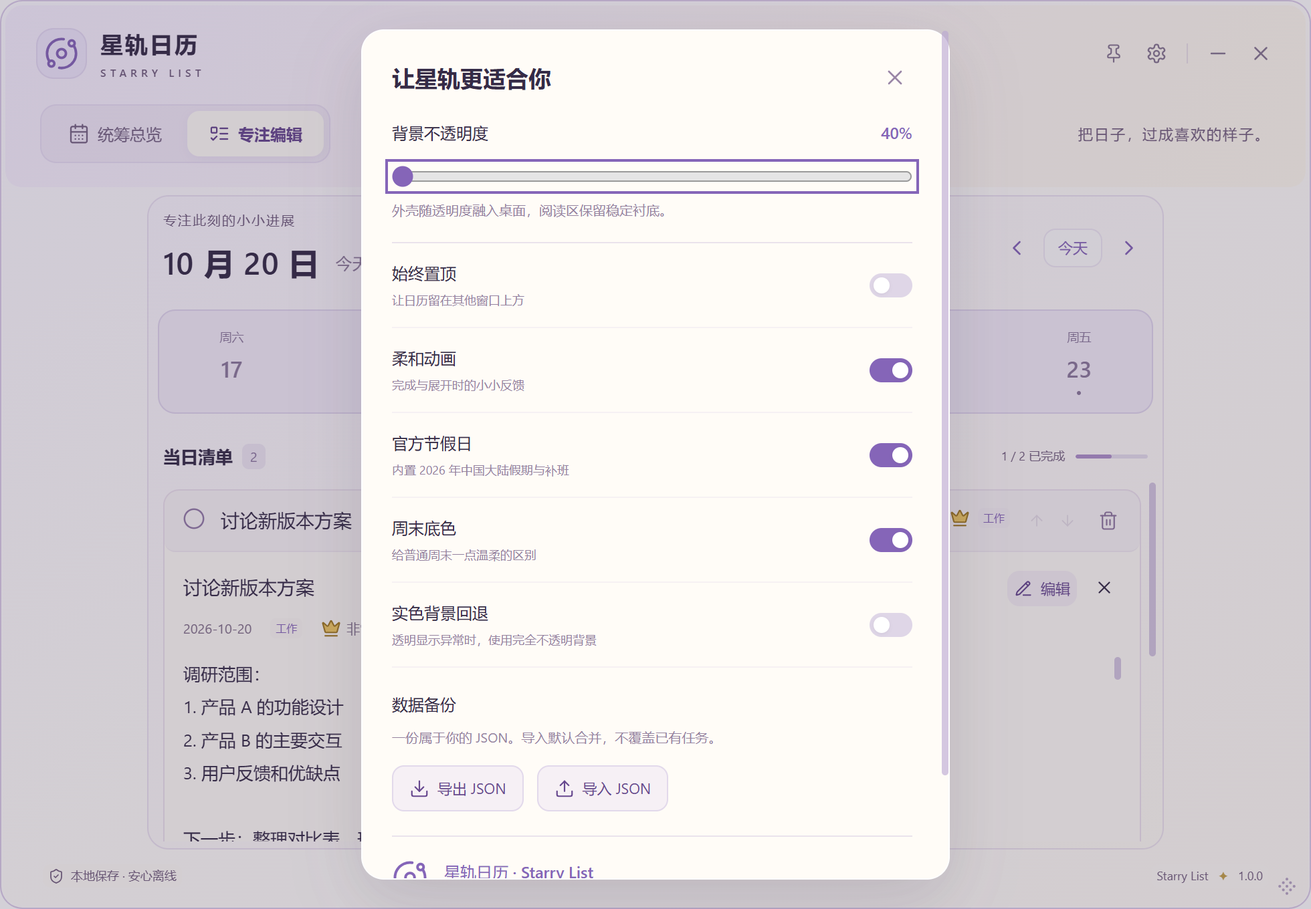
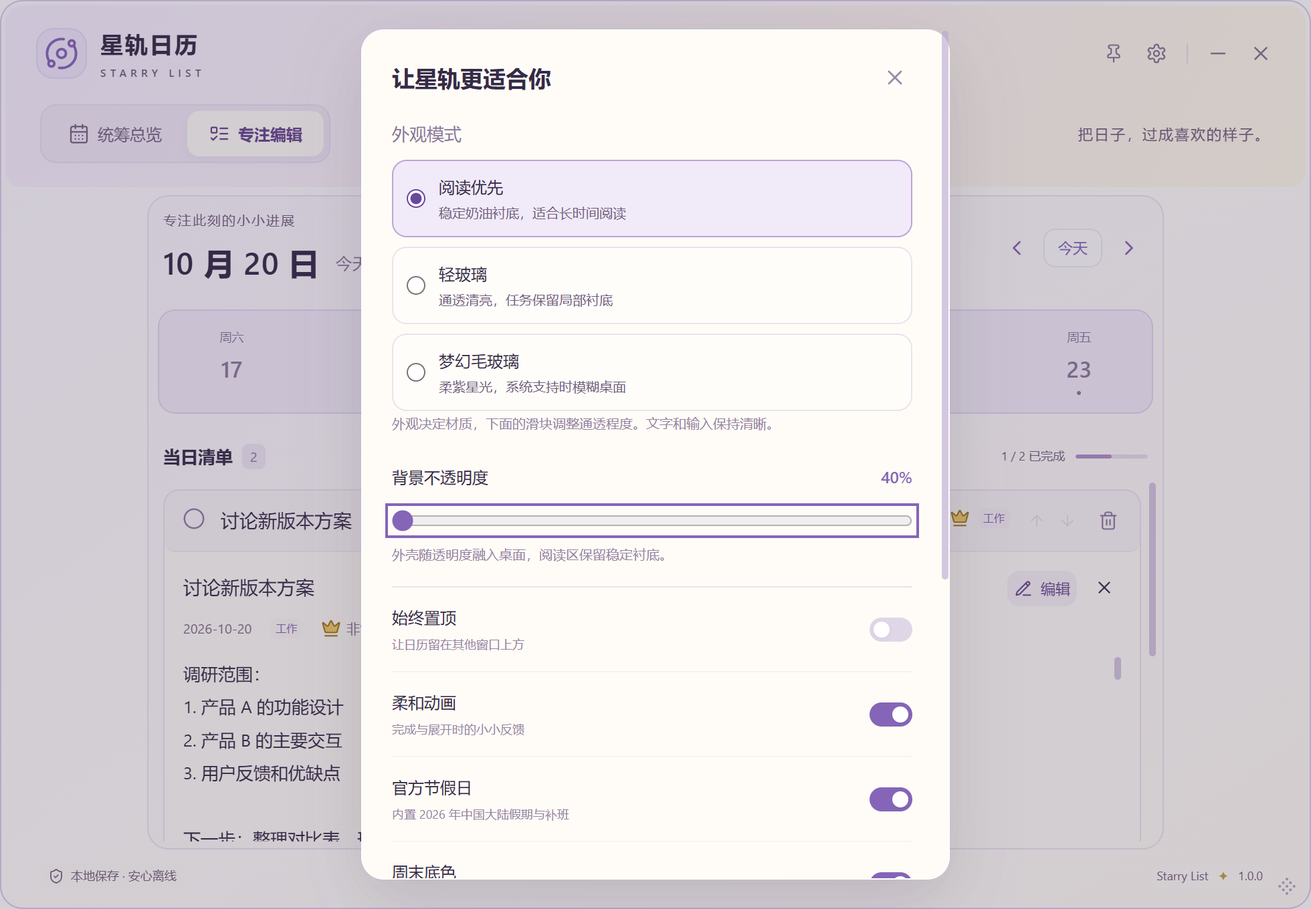
docs: record UX3.0.1 appearance validation and preview builds

diff --git a/docs/VALIDATION.md b/docs/VALIDATION.md
@@ -1,5 +1,55 @@
 # V1.0 验证记录
 
+## 2026-10-20：UX3.0.1 外观模式与通知续修
+
+范围为 SL-003-A 外观设置与 SL-003-B 通知布局；SL-003 继续 In Review，等待用户安装确认。阅读优先默认，新增轻玻璃与梦幻毛玻璃，14px、顶部结构、双视图、任务数据结构不变。原 SL-019 / SL-002 的 UX2.3 验收历史保留，不把本轮视觉续修当成正式发布。
+
+### 数据与材质边界
+
+- 沿用 SQLite `app_settings.value` JSON，增加 `appearance_mode`，没有修改表、迁移文件或 `user_version=1`。旧设置/旧版本 1 JSON 缺字段时默认 reading，读取不改写旧设置；新增设置可靠写入后才更新界面。未知模式拒绝，原任务、分类与排序不变。
+- Tauri 官方 `setEffects({effects:[Effect.Acrylic]})` / `clearEffects()`，仅新增 `core:window:allow-set-effects` 权限。直接复用锁文件已存在的 windows-version 0.1.7 检测系统，锁文件只增加根依赖引用，没有升级其他包。Acrylic 限定透明原生窗口、Windows 11 build 22621+、非实色回退且低于 100%；异步请求串行，其他模式和 100% 主动清除。旧系统/不透明/请求失败使用保护更强的柔紫底色；系统透明效果等仍可能影响最终像素。
+- 未用 CSS backdrop-filter 冒充桌面模糊；主字体和输入不降低 opacity。原生模糊请求是否成功与实际渲染分开记录，技术依据见 [材质说明](UX3_0_1_VISUAL_REVIEW.md)。
+- 通知短文案没有 flex 导致关闭按钮紧随左侧文字，现文案占剩余宽度、关闭最右、撤销在前。所有成功通知共用约五秒与 hover / focus / 弹窗暂停；撤销保留独立状态与原 SQLite 操作。
+
+### 检查结果
+
+- TypeScript、Lint、**119 项前端测试**及生产构建通过：58 App、6 通知、32 域逻辑、9 surface、3 原生材质调用、5 store、6 窗口边界。覆盖外观保存/重新加载/失败保持原模式、旧备份默认、单调透明度与降级保护、原生请求串行/失败重试，以及普通恢复通知暂停计时。最终补充检查以本节收尾记录为准。
+- Rust fmt、**13 项 Rust/SQLite 测试**及 Clippy `-D warnings` 通过。新增旧设置/备份兼容、读取不改写、表版本不变、三模式设置/导出和错误模式拒绝测试。
+- **23 组真实 Windows 11 / WebView2 交互回归通过**：真实独立 Edge 获得前台后失焦新增、原日期及不抢焦点、Enter 连续新增、行内修改、完成、删除/撤销、通知五秒及暂停、长计划/抽屉与草稿保护、真实 SQLite INSERT / UPDATE / DELETE 失败/重试、导入导出、原生关闭及重启。追加外观偏好真正跨原生进程重启保留；只访问独立调试库，不接触安装版数据。
+- **72 张真实 Windows 合成矩阵**：4 个自制背景 × 3 档透明度 × 2 主视图 × 3 材质，逐项通过溢出/14px/文本采样检查。Windows 11 25H2 build 26200.9457、当前约 200% 屏幕比例；矩阵逻辑窗口为 980 × 620，给模糊采样留出合成背景边界。样例日历固定 2026-10-19，计时器仍是真实时间。
+- 梦幻模式系统 `DWMWA_SYSTEMBACKDROP_TYPE=3`，其他模式 / 100% 为非 3，确认实际系统材质配置启用与清除。还检查真实截图；API 返回成功不是唯一证据。三种 100% 的外壳采样像素各不相同，证明实色也保留材质配色区别。读取 DWM 属性只用于测试助手，不给应用新增底层窗口控制。
+- 指定阅读区采样底色与主文字颜色计算的最低对比度：阅读约 **12.63:1**、轻玻璃约 **8.63:1**、梦幻约 **7.20:1**。首轮梦幻 40% 专注采样曾为 6.90:1，已提高该面板 alpha 后复测达标；未改变外壳滑块值。这是指定点检查，不是全界面 WCAG 认证或所有背景的保证。
+- **48 项前景 WebView 视口截图及几何检查通过**：三材质 × 四宽度（980 / 760 / 500 / 380）× 只读详情、长文本抽屉、设置弹窗及顶部通知。关闭按钮到提示右边缘不超过 12px，新增撤销提示与普通「已撤销新增」均检查，保存按钮可见，菜单命中、无横向溢出。前景截图仅包含测试 WebView，**不包含原生桌面合成**，不把它当成 Acrylic 纹理证据。
+- 前景原生截图被窗口叠放保护拒绝，曾试验只调整测试窗口叠放，仍受 Windows 前台规则影响；最终保留拒绝机制并使用明确标注的视口检查。没有关闭、隐藏或修改用户其他应用。真实合成截图前后检查自制背景、前台、无无关窗口，并额外保护四周 64 物理像素；不会为让测试通过而放宽私人内容保护。
+- 原生不透明调试构建成功；三种模式的 **48 项前景视口检查**通过，原生透明能力为 false、滑块禁用、界面不声称透视。另检查两视图 × 四宽度 × 三模式 × 三档保存偏好共 **72 组原生配置/布局组合**，全基础 alpha 为 1、无横向溢出。不透明完整桌面合成矩阵未执行，不以视口截图替代它。
+
+### 复现与未验证范围
+
+按下方 UX3.0 的独立标识配置构建调试版后运行；正式配置不可添加测试专用 set-focus 权限。
+
+```powershell
+npm run test:appearance -- --matrix-only
+npm run test:appearance -- --foreground-only --viewport-only
+npm run test:desktop
+```
+
+结果与完整矩阵在忽略的 `.cache/visual-materials-*`；公开图片全部为自制背景与隔离示例。三种材质的公开图及来源见 [UX3.0.1 对比](UX3_0_1_VISUAL_REVIEW.md)。原生不透明调试构建合并已有 opaque 配置后，添加 `--opaque` 运行相同前景检查。
+
+本轮未完成梦幻材质下真实鼠标拖动/边缘缩放的独立验证；原生 API 调整窗口与先前 UX3.0 拖动证据不能替代本轮材质性能验收。未实际安装/覆盖/卸载，未独立验证 Windows 10、旧 Windows 11、不同 GPU/远程桌面/节能组合、真实 IME 候选窗、混合 DPI 和多显示器。全局字号、顶部重排、桌面驻留及星河未开发。本轮视觉仍等待用户确认。
+
+### UX3.0.1 交付收尾
+
+最终 `npm run check` 再次通过 TypeScript、Lint、119 项前端测试与生产构建；Rust fmt 检查通过。默认透明与原生不透明的生产配置 Windows x64 NSIS 构建均成功。BUNDLEID 仍为 `app.starrylist.desktop`、正式版本仍为 1.0.0，Publisher / Copyright 为 yoli；体验迭代名仅用于独立归档文件名，不创建 Tag 或 Release。测试用 set-focus 权限未加入正式 capability。
+
+| 安装包（本地 artifacts/，不提交 Git）                             | 字节数    | SHA256                                                             |
+| ----------------------------------------------------------------- | --------- | ------------------------------------------------------------------ |
[2 lines of base64/hex data omitted]
+
+校验文件：`artifacts/UX3.0.1-PREVIEW-20261020-SHA256SUMS.txt`。UX3.0 两个旧归档包校验值未变；正式 SQLite 主文件测试前后校验值一致。未关闭用户安装版、未删除或重置数据库。安装体验前请自行导出备份、正常退出旧版后按手册覆盖；本轮没有执行安装器。
+
+本轮实现提交：[`faa14e8`](https://github.com/YOLIIIIII/starry-list/commit/faa14e8e06f328001af6d82dec898ae0969d8b6c)；文档与自制示例截图独立提交。安装包和完整测试目录不提交 Git。
+
 ## 2026-10-20：UX3.0 透明视觉体系（SL-003）
 
 仅改透明视觉层级与测试工具：连续圆角顶栏、真正随滑块变化的透明外壳、稳定奶油色阅读衬底和清楚的前景。14px、顶部排布、日期计算、任务排序、数据库 Schema、应用标识及 UX2.3 交互不变。不依赖模糊滤镜或新增原生窗口特效。

diff --git a/docs/UX3_0_1_VISUAL_REVIEW.md b/docs/UX3_0_1_VISUAL_REVIEW.md
@@ -1,0 +1,44 @@
+# UX3.0.1 外观模式与通知修正
+
+对应 [SL-003-A / SL-003-B](PRODUCT_BACKLOG.md#sl-003)，是 UX3.0 用户反馈的续修；默认阅读优先，14px、主界面布局、任务编辑及数据库表结构不变。用户本轮没有附入参考图片，以下按文字描述实现，不声称复现了未收到的原图。视觉仍待用户最终确认。
+
+## 三种材质
+
+| 模式             | 材质与阅读保护                                                                                | 100% / 实色回退                |
+| ---------------- | --------------------------------------------------------------------------------------------- | ------------------------------ |
+| 阅读优先（默认） | UX3.0 的稳定奶油阅读区、轻透明外壳                                                            | 奶油实色，任务行紧凑           |
+| 轻玻璃           | 冷浅紫与奶油清透材质，面板透视更多；任务行、日期数字有局部衬底，不请求原生模糊                | 清浅冷紫实色与明亮任务行       |
+| 梦幻毛玻璃       | 柔紫浅金材质；受支持的 Windows 请求系统 Acrylic，空隙及面板保留更明显背景氛围；任务行单独保护 | 关闭原生模糊，保留柔紫浅金配色 |
+
+外观模式决定材质；「背景不透明度」仍控制外壳的实际 40%–100%，不是三个模式固定不同透明度。各层保护随滑块单调增强；文本与图标不设整体 opacity。输入、只读长详情、抽屉、菜单、弹窗及通知保持高可读底色。
+
+40% 时，轻玻璃任务行的理论合成背景覆盖约 94.1%；梦幻原生毛玻璃约 93.9%；阅读优先主阅读区约 99.4%。这些数字是多层 alpha 合成，不是文字 opacity 或全界面的统一不透明度。100% 三种模式均不透视，通过配色、描边和任务局部材质继续区分。
+
+## 原生模糊及降级
+
+仅梦幻毛玻璃、透明原生窗口、未开启实色回退且低于 100% 时请求 [Tauri 官方 setEffects / Acrylic](https://v2.tauri.app/reference/javascript/api/namespacewindow/#seteffects)。限定 Windows 11 build 22621+，避开官方提示存在拖动/缩放性能问题的旧系统路径；其他系统、原生不透明包或调用失败使用保护更强的柔紫玻璃底色，设置中明确说明。没有新增 Explorer 嵌入、驻留或未验证窗口 Hack。
+
+系统关闭透明效果、节能、远程桌面和 GPU 条件仍可能影响实际模糊。设置显示「已请求系统 Acrylic」而不是保证每台机器都呈现相同效果；接口成功不等于像素必然模糊。本轮测试同时查询 Windows 的 [DWMWA_SYSTEMBACKDROP_TYPE](https://learn.microsoft.com/en-us/windows/win32/api/dwmapi/ne-dwmapi-dwmwindowattribute)，并观察实际合成截图。其他模式、100% 和实色回退主动清除 Acrylic；异步请求串行，快速切换不会让迟到的旧请求重新启用材质。
+
+未使用 CSS backdrop-filter 来冒充桌面模糊。CSS 方案不能保证过滤 WebView 外的桌面像素；本轮局部背景本身即可保证降级阅读，不依赖滤镜是否支持。
+
+## 风格对比
+
+全部背景为项目脚本绘制的非私人几何、色块或测试文字；所有任务为隔离测试数据。截图前后检查覆盖与前台，并为 Acrylic 额外保护窗口周边 64 个物理像素，避免模糊采样混入旁边的个人内容。日历固定 2026-10-19，计时器使用真实时间。
+
+| 模式       | 高对比背景 / 70% / 总览                                    | 密集文字 / 40% / 专注                               | 深色 / 40% / 总览                                      |
+| ---------- | ---------------------------------------------------------- | --------------------------------------------------- | ------------------------------------------------------ |
+| 阅读优先   | [截图](screenshots/ux301/reading-colorful-70-overview.png) | [截图](screenshots/ux301/reading-text-40-focus.png) | [截图](screenshots/ux301/reading-dark-40-overview.png) |
+| 轻玻璃     | [截图](screenshots/ux301/glass-colorful-70-overview.png)   | [截图](screenshots/ux301/glass-text-40-focus.png)   | [截图](screenshots/ux301/glass-dark-40-overview.png)   |
+| 梦幻毛玻璃 | [截图](screenshots/ux301/frosted-colorful-70-overview.png) | [截图](screenshots/ux301/frosted-text-40-focus.png) | [截图](screenshots/ux301/frosted-dark-40-overview.png) |
+
+完整矩阵、前景、通知对齐、构建结果及原生拖动验证缺口见 [验证记录](VALIDATION.md)。执行 `npm run test:appearance -- --matrix-only` 可复现 72 张真实合成矩阵；前景用 `--foreground-only --viewport-only`，其图片只包含 WebView，不展示真实桌面模糊。需先构建隔离调试版；添加 `--opaque` 检查原生不透明构建。仅运行调试测试，禁止对安装版个人数据库执行脚本。
+
+## 通知与验收
+
+短成功文案原先没有弹性宽度，关闭按钮跟在文案旁；现在所有通知文案占剩余宽度，关闭按钮固定最右，撤销在文案与关闭之间。长文案省略，完整任务标题仍可悬停查看。普通恢复/保存提示与撤销提示共用约 5 秒计时和 hover / focus / 弹窗暂停；多条有效撤销继续独立保留，数据库撤销逻辑不变。
+
+1. 设置 → 外观模式，依次选择三种模式，再比较 40%、70%、100%。
+2. 在深浅、复杂背景前查看日期、任务及长计划，确认自己偏好的材质与可读性。
+3. 打开窄窗口的设置、菜单、抽屉；新增、删除、撤销后确认关闭按钮在右侧，悬停暂停、离开后计时恢复。
+4. 重启确认模式保留；实色回退应关闭模糊与透视，保留材质配色。

diff --git a/docs/ROADMAP.md b/docs/ROADMAP.md
@@ -15,7 +15,7 @@ Windows 是当前主要平台，未来考虑 macOS。桌面驻留是待验证的
 | 初始 V1.0 源码基线              | 已提交并 Push：[`830b88f`](https://github.com/YOLIIIIII/starry-list/commit/830b88f3ddc7fbf23084cab7a722db8dcbe45f2d)    | 首次 [GitHub CI](https://github.com/YOLIIIIII/starry-list/actions/runs/38733069296) 成功 | 原始记录为 Windows 11 验证；不等于所有 Windows 设备已认证    | 未记录完整 V1.0 最终验收                        | 没有 GitHub Release    |
 | SL-001 阅读 / 编辑分离          | 已实现并独立提交：[`23a7cd3`](https://github.com/YOLIIIIII/starry-list/commit/23a7cd3941a28d0724e254ca7b9bb71c9b8fd5c8) | UX2.3 TypeScript、Lint、100 项前端和 11 项 Rust 测试通过                                 | UX2.3 22 组原生回归通过，含宽窄抽屉、长文本、菜单及保存失败  | 用户认可大部分首轮改进；In Review，仍待最终验收 | 未发布，仅本地体验构建 |
 | SL-002 七天日程空状态           | UX2.3：保留可靠失焦新增，Enter 成功后返回原日期加号                                                                     | 100 项前端、11 项 Rust 通过                                                              | 22 组 Windows 11 测试通过，含真实 Edge 失焦、INSERT 失败重试 | Done，2026-10-19 用户确认                       | 未发布                 |
-| SL-003 透明视觉层级             | UX3.0 已实现：连续顶栏、稳定阅读衬底与透明外壳                                                                          | 109 项前端、11 项 Rust 回归通过                                                          | 自制背景矩阵、宽窄窗口及原生拖动/缩放验证，详见验证记录      | In Review，待体验安装包确认                     | 未发布                 |
+| SL-003 透明视觉层级             | UX3.0.1：三种外观与通知右侧关闭                                                                                         | 119 项前端、13 项 Rust 通过                                                              | 23 组桌面、72 张合成矩阵及透明/不透明视口检查，详见验证记录  | In Review，待安装体验确认                       | 未发布                 |
 | SL-004 至 SL-018（除 SL-004-A） | 待安排或想法，不因登记而实现                                                                                            | 未验证                                                                                   | 未验证                                                       | 未验收                                          | 未发布                 |
 | SL-019 快捷删除入口             | UX2.3：顶部居中单行撤销通知，约 5 秒、独立计时及暂停                                                                    | 100 项前端回归通过                                                                       | 真实 DELETE 失败、重试、撤销与菜单定位通过                   | Done，2026-10-19 用户确认                       | 未发布                 |
 | SL-004-A 局部字号               | UX2.1：新增文字、占位符和任务标题统一为 14px                                                                            | 前端检查通过                                                                             | 980 / 760 / 500 / 380px 无水平溢出，菜单命中及字号检查通过   | In Review，父需求 SL-004 保持未完成             | 未发布                 |
@@ -64,7 +64,13 @@ UX2.1 实现提交：[`6d7c64e`](https://github.com/YOLIIIIII/starry-list/commit
 - 14px 与 SL-004-A / In Review 不变，SL-001 不关闭；SL-018 / SL-020、SL-022 / SL-023 不变，无新增编号和拖动/星河实现。实际测试与体验构建见 [验证记录](VALIDATION.md)。
 - 下一轮先验收 UX2.3，再按原顺序评审 SL-003 透明视觉；全局字号、顶部优化与驻留研究仍需独立授权。
 
-## UX3.0 当前增量
+## UX3.0.1 当前续修
+
+实现提交：[`faa14e8`](https://github.com/YOLIIIIII/starry-list/commit/faa14e8e06f328001af6d82dec898ae0969d8b6c)；独立体验包与测试限制见验证记录，尚未正式发布。
+
+用户安装 UX3.0 后认可整体方向，反馈白色衬底偏实、普通恢复通知的关闭按钮偏左。本轮完成 SL-003-A 三种外观与 SL-003-B 通知修正：阅读优先默认，轻玻璃与梦幻毛玻璃可选，沿用原滑块和设置 JSON；当前 In Review，等待安装体验确认。原生 Acrylic 限定现代 Windows，其他环境清楚降级。119 项前端、13 项 Rust、23 组桌面回归与 72 张合成矩阵通过；前景 48 项为视口检查，原生材质拖动性能未完成验收。保持 14px、顶部结构、双视图及任务数据，SL-004 / SL-005 留后续独立授权。具体标准见需求池；[外观对比](UX3_0_1_VISUAL_REVIEW.md) 只用合成背景，未收到的用户参考图不声称逐像素复现。
+
+## UX3.0 历史增量
 
 实现提交：[`4e640e0`](https://github.com/YOLIIIIII/starry-list/commit/4e640e0b87e39fe0308e9ab00549971bd235605f)；109 项前端、11 项 Rust 和 22 组桌面回归通过；透明/不透明 Windows x64 NSIS 构建均成功，视觉仍待用户确认，不透明完整合成截图矩阵尚有缺口。
 

diff --git a/docs/USER_GUIDE.md b/docs/USER_GUIDE.md
@@ -4,7 +4,7 @@
 
 本文按 V1.0 实际界面、任务编辑器、设置及安装器配置编写。界面默认使用简体中文。安装器中的应用名称为 **Starry List**，应用窗口内显示「星轨日历」。
 
-2026-10-20 更新：以下说明对应 UX3.0 体验版；UX2 与更早安装包的交互可能不同。
+2026-10-20 更新：以下说明对应 UX3.0.1 体验版；UX2 与更早安装包的交互可能不同。
 
 ## 首次使用五分钟快速上手
 
@@ -29,11 +29,11 @@
 
 当前安装包未配置代码签名，Windows 可能显示「未知发布者」或 SmartScreen 提示。源码中的版权和安装包发布者显示现已统一为 `yoli`；现有旧安装包需要重新构建才会包含更新，见 [验证记录](VALIDATION.md)。该署名不是已验证的签名证书身份。请核对安装包来源及维护者提供的 SHA256。
 
-### 安装 UX3.0 体验版
+### 安装 UX3.0.1 体验版
 
-本轮默认透明版文件名为 `Starry-List_1.0.0_x64-ux3.0-preview-20261020-setup.exe`，配套校验文件为 `UX3.0-PREVIEW-20261020-SHA256SUMS.txt`，均在维护者本地 `artifacts/` 目录，不随源码上传 GitHub。它仍使用 1.0.0 和相同应用标识，会更新同一个应用，不是并行安装的第二套软件。
+本轮默认透明版文件名为 `Starry-List_1.0.0_x64-ux3.0.1-preview-20261020-setup.exe`，配套校验文件为 `UX3.0.1-PREVIEW-20261020-SHA256SUMS.txt`，均在维护者本地 `artifacts/` 目录，不随源码上传 GitHub。它仍使用 1.0.0 和相同应用标识，会更新同一个应用，不是并行安装的第二套软件；UX3.0 旧体验包另外保留。
 
-本轮也提供原生不透明回退包 `Starry-List_1.0.0_x64-ux3.0-opaque-preview-20261020-setup.exe`，与透明版共用同一校验文件。通常先选默认透明版；不透明版的构建和原生配置/布局已检查，完整合成截图仍有验证缺口，详见 [验证记录](VALIDATION.md)。
+原生不透明回退包为 `Starry-List_1.0.0_x64-ux3.0.1-opaque-preview-20261020-setup.exe`，使用同一份校验文件；本轮验证范围见 [验证记录](VALIDATION.md)。通常先选默认透明版，不透明原生窗口不会产生桌面透视或模糊。
 
 先在旧版设置中「导出 JSON」备份重要任务，再正常关闭旧版。运行新安装器，沿用原安装目录；如果检测到同版本，选择「添加/重新安装组件」继续覆盖，不要选择卸载。该选项已按实际生成的 NSIS 脚本核对，但本轮没有执行安装器验证。无需为了更新而手动卸载或删除数据目录。如果提示应用仍在运行，取消后正常退出旧版再重试。提示不明确时保留备份并取消，不要勾选「删除应用程序数据」来解决。安装后从开始菜单重新启动，检查任务和详情是否保留。
 
@@ -227,7 +227,15 @@ V1.0 没有系统托盘功能。右上角关闭按钮是退出应用，不是隐
 
 默认透明版的「背景不透明度」滑块范围为 **40%–100%**，初始约 **85%**。数值越低，桌面越容易透过外壳、边缘和留白；100% 表示完全不透明。UX3.0 的月历、七天日程和专注清单使用稳定的浅色阅读衬底，低透明度也不会让整个内容区随外壳一起变淡，这是阅读保护。拖动时实时预览，松开或使用键盘调整后保存；文字、图标及输入区域保持清晰，不随整个窗口一起变淡。
 
-顶栏的标题和模式切换共用连续的圆角背景，任务标题仍为 14px；日期、任务和前景控件通过底色与细描边区分，没有新增模糊滤镜或系统特效。新旧对比和测试条件见 [UX3.0 视觉对比](UX3_VISUAL_REVIEW.md)。Enter 连续新增、失焦保存、顶部约 5 秒撤销通知等 UX2.3 行为保持不变。
+设置顶部新增「外观模式」，点选即保存，下次启动保留：
+
+- **阅读优先**：默认，奶油阅读衬底最稳定，适合长时间阅读。
+- **轻玻璃**：更通透的清浅紫色材质，任务文字仍有局部衬底。
+- **梦幻毛玻璃**：柔紫浅金与更明显的背景氛围；支持的 Windows 11 请求系统 Acrylic。旧系统、原生不透明窗口或请求失败会使用更清晰的降级衬底，设置中有说明。Windows 的透明效果、远程桌面和硬件条件也可能影响最终模糊效果。
+
+外观模式选择材质，透明度滑块调整通透程度，二者独立。100% 关闭桌面模糊和透视，三种模式仍保留各自配色；实色回退同样关闭模糊。出现性能或观感问题时，可直接改回阅读优先。旧设置或旧 JSON 备份没有外观选项时，默认采用阅读优先，不改变任务。
+
+顶栏共用连续圆角背景，任务标题仍为 14px。三种风格和条件见 [UX3.0.1 外观对比](UX3_0_1_VISUAL_REVIEW.md)，[UX3.0 原对比](UX3_VISUAL_REVIEW.md) 保留。Enter 连续新增与失焦保存保持；顶部通知中的关闭按钮位于最右，撤销在它之前。恢复/保存成功与撤销通知约 5 秒消失，鼠标悬停、键盘焦点或抽屉/弹窗打开时暂停；通知消失不会更改已保存的数据。
 
 开启「实色背景回退」后，背景完全不透明，滑块不可操作；关闭它可恢复透明度调整。原生不透明版的滑块始终不可操作，即使关闭此开关也不能透视桌面。
 

diff --git a/README_EN.md b/README_EN.md
@@ -72,7 +72,7 @@ No accounts, cloud services, telemetry, remote fonts or network icons. Data is u
 
 See the [roadmap](docs/ROADMAP.md), [product backlog](docs/PRODUCT_BACKLOG.md) and [decision log](docs/DECISIONS.md) (Chinese). The Markdown backlog is the authoritative source for detailed requirements, priorities, states and acceptance criteria. Recording a request does not authorize implementation; no unassessed version scope or release date is promised.
 
-UX3.0 implements only SL-003: a continuous rounded header and stable reading surfaces while preserving shell opacity (40–100%), 14px task text and all UX2.3 interactions. Visual acceptance remains In Review; see the [before/after comparison](docs/UX3_VISUAL_REVIEW.md). SL-002 / SL-019 are Done following user confirmation and evidence review; SL-021 stays Done. These changes are not formally released. SL-001 / SL-004-A remain In Review. Global font settings and top-area layout are deferred to a separately authorized UX3.1 iteration; stars, galaxy, dragging and desktop residency remain planning only.
+UX3.0.1 extends SL-003 with persisted Reading / Light Glass / Dreamy Frosted appearances; Reading remains the default. Material and shell opacity (40–100%) are independent. Supported modern Windows can request Acrylic; unsupported or opaque windows use a readable fallback. Notification close buttons align right, preserving undo, five-second lifetime and pause behavior. Task text stays 14px and core interactions are retained. Visual acceptance remains In Review; see the [appearance comparison](docs/UX3_0_1_VISUAL_REVIEW.md) and [UX3.0 baseline](docs/UX3_VISUAL_REVIEW.md). SL-002 / SL-019 baseline behavior and SL-021 are Done, not formally released. SL-001 / SL-004-A remain In Review; other roadmap work requires separate authorization.
 
 The initial V1.0 source is pushed. First-round UX changes are recorded separately in implementation commit [`23a7cd3`](https://github.com/YOLIIIIII/starry-list/commit/23a7cd3941a28d0724e254ca7b9bb71c9b8fd5c8); the backlog tracks subsequent acceptance decisions. There is no published GitHub Release. Planned capabilities are not implemented features.
 

diff --git a/README.md b/README.md
@@ -140,7 +140,7 @@ docs/VALIDATION.md     验证范围与限制
 
 详细计划见 [开发路线图](docs/ROADMAP.md)，需求、优先级、状态与验收标准见 [产品需求池](docs/PRODUCT_BACKLOG.md)，重要取舍见 [产品决策记录](docs/DECISIONS.md)。登记需求不会自动启动开发，不承诺未经评估的版本范围或发布日期。
 
-UX3.0 仅升级 SL-003 透明视觉：连续圆角顶栏与稳定阅读衬底，保留 40%–100% 外壳透明度、14px 和 UX2.3 交互；当前 In Review，等待视觉体验确认。新旧界面见 [视觉对比](docs/UX3_VISUAL_REVIEW.md)。用户确认并核查证据后 SL-002 / SL-019 已为 Done，SL-021 保持 Done，尚未正式发布；SL-001 / SL-004-A 仍 In Review。SL-004 全局字号和 SL-005 顶部空间安排 UX3.1 单独评审。星星/星河、拖动及桌面驻留规划不变，登记不代表开工。
+UX3.0.1 续修 SL-003：设置可选「阅读优先 / 轻玻璃 / 梦幻毛玻璃」，阅读优先仍默认；模式与 40%–100% 外壳不透明度独立，支持的现代 Windows 可请求 Acrylic，其他环境明确降级。通知关闭按钮最右、撤销在前，保留五秒与暂停。14px 与核心交互不变；当前 In Review，等待视觉体验确认。见 [三种外观对比](docs/UX3_0_1_VISUAL_REVIEW.md) 与 [UX3.0 历史对比](docs/UX3_VISUAL_REVIEW.md)。SL-002 / SL-019 原体验已验收 Done，SL-021 保持 Done，尚未正式发布；SL-001 / SL-004-A 仍 In Review。全局字号、顶部空间及其他规划需后续独立授权。
 
 初始 V1.0 源码已同步，第一轮 UX 改进已作为独立实现提交 [`23a7cd3`](https://github.com/YOLIIIIII/starry-list/commit/23a7cd3941a28d0724e254ca7b9bb71c9b8fd5c8) 纳入历史；后续验收状态以需求池为准。本项目尚无正式 GitHub Release。原 V1.1 / V2.0 列表作为候选想法整合到需求池，不代表已实现功能或发布日期。
 

diff --git a/docs/DECISIONS.md b/docs/DECISIONS.md
@@ -102,3 +102,12 @@
 - 原因：旧补色公式在中间透明度保护更弱，且不同区域分别叠色产生突兀矩形；复杂壁纸和背后文字不能抢占任务可读性。
 - 影响范围：surfaceAlphas、连续顶栏、月历/七天/专注与前景背景。外壳保持 40%–100% 真实变化；内容局部保护单调增强；不依赖 backdrop-filter、全局 opacity 或新增原生特效。应用 ID、数据及 14px 不变；不提前实施 SL-004 / SL-005 / SL-006。
 - 是否重新评估：用户安装 UX3.0 后根据视觉舒适度与兼容性反馈复核；硬件范围、DPI、原生不透明和性能结论以实际验证为准，不泛称所有设备已认证。
+
+### DEC-012
+
+**阅读优先为默认，材质偏好与透明度独立；原生毛玻璃可降级。**
+
+- 日期：2026-10-20；状态：UX3.0.1 当前实现方向，视觉待用户验收，补充 DEC-011。
+- 原因：用户认可阅读保护，但希望可选更通透或更梦幻的材质。保持一个清晰默认值，同时让玻璃偏好不牺牲关键文本；CSS 滤镜不能冒充桌面模糊。
+- 影响范围：SL-003-A / B、surfaces、设置 JSON、Tauri 官方效果权限与通知样式/计时。只新增可默认的设置字段，不改数据库表、迁移或任务；旧数据默认阅读。Acrylic 仅现代 Windows 透明窗口请求，不透明/旧系统/失败有明确降级，100% 清除原生效果。
+- 是否重新评估：三种模式的强度、系统兼容性和观感由体验包反馈复核；不把一次 Windows 11 验证推广到所有硬件，不提前开发 SL-004 / SL-005 / SL-006。

diff --git a/CHANGELOG.md b/CHANGELOG.md
@@ -2,7 +2,10 @@
 
 ## 未发布 — V1.0 发布前维护
 
-UX2 至 UX2.3 为历史体验迭代记录，当前行为以 UX3.0 为准；均不代表正式 Release。
+- UX3.0.1 / SL-003-A：新增「阅读优先 / 轻玻璃 / 梦幻毛玻璃」外观设置；默认保持阅读优先，独立于 40%–100% 滑块。支持的现代 Windows 请求 Tauri Acrylic，其他环境明确降级；100% 和实色回退清除模糊。设置沿用 SQLite JSON，旧设置/备份默认阅读，无表或任务结构修改。
+- UX3.0.1 / SL-003-B：通知文案使用弹性宽度，关闭按钮最右、撤销在前；普通恢复提示也共用约五秒及悬停/焦点/弹窗暂停，撤销与数据库逻辑不变。三种材质及通知修正均待用户验收。
+
+UX2 至 UX3.0 为历史体验迭代记录，当前行为以 UX3.0.1 为准；均不代表正式 Release。
 
 - UX3.0 / SL-003：修正中间透明度阅读保护变弱的计算；连续圆角顶栏、稳定月历/七天/专注阅读衬底、细描边和辅助文字对比优化。外壳仍随 40%–100% 改变，100%/实色回退不透视，无整体 opacity 或模糊滤镜依赖。
 - 保持 14px、双视图、任务数据结构及 UX2.3 全部交互；全局字号与顶部空间留 UX3.1 独立处理。

diff --git a/docs/UX3_VISUAL_REVIEW.md b/docs/UX3_VISUAL_REVIEW.md
@@ -2,6 +2,8 @@
 
 本轮仅对应 [SL-003](PRODUCT_BACKLOG.md#sl-003)，视觉仍待用户最终确认。字号保持 14px，顶部高度、双视图、月历日期/排序和已有任务交互不重做。
 
+本文保留 UX3.0 历史基线。UX3.0.1 根据用户反馈增加外观选择并修正通知关闭位置，最新规则与对比见 [UX3.0.1 外观说明](UX3_0_1_VISUAL_REVIEW.md)；阅读优先继续保留本页的默认保护方案。
+
 ## 对比条件
 
 - Windows 11、真实透明 Tauri / WebView2 窗口；四种背景均由项目测试脚本自制：浅色几何、深色圆环、高对比色块与斜线、密集测试文字/图标。没有使用私人壁纸、照片或实际个人窗口内容。
